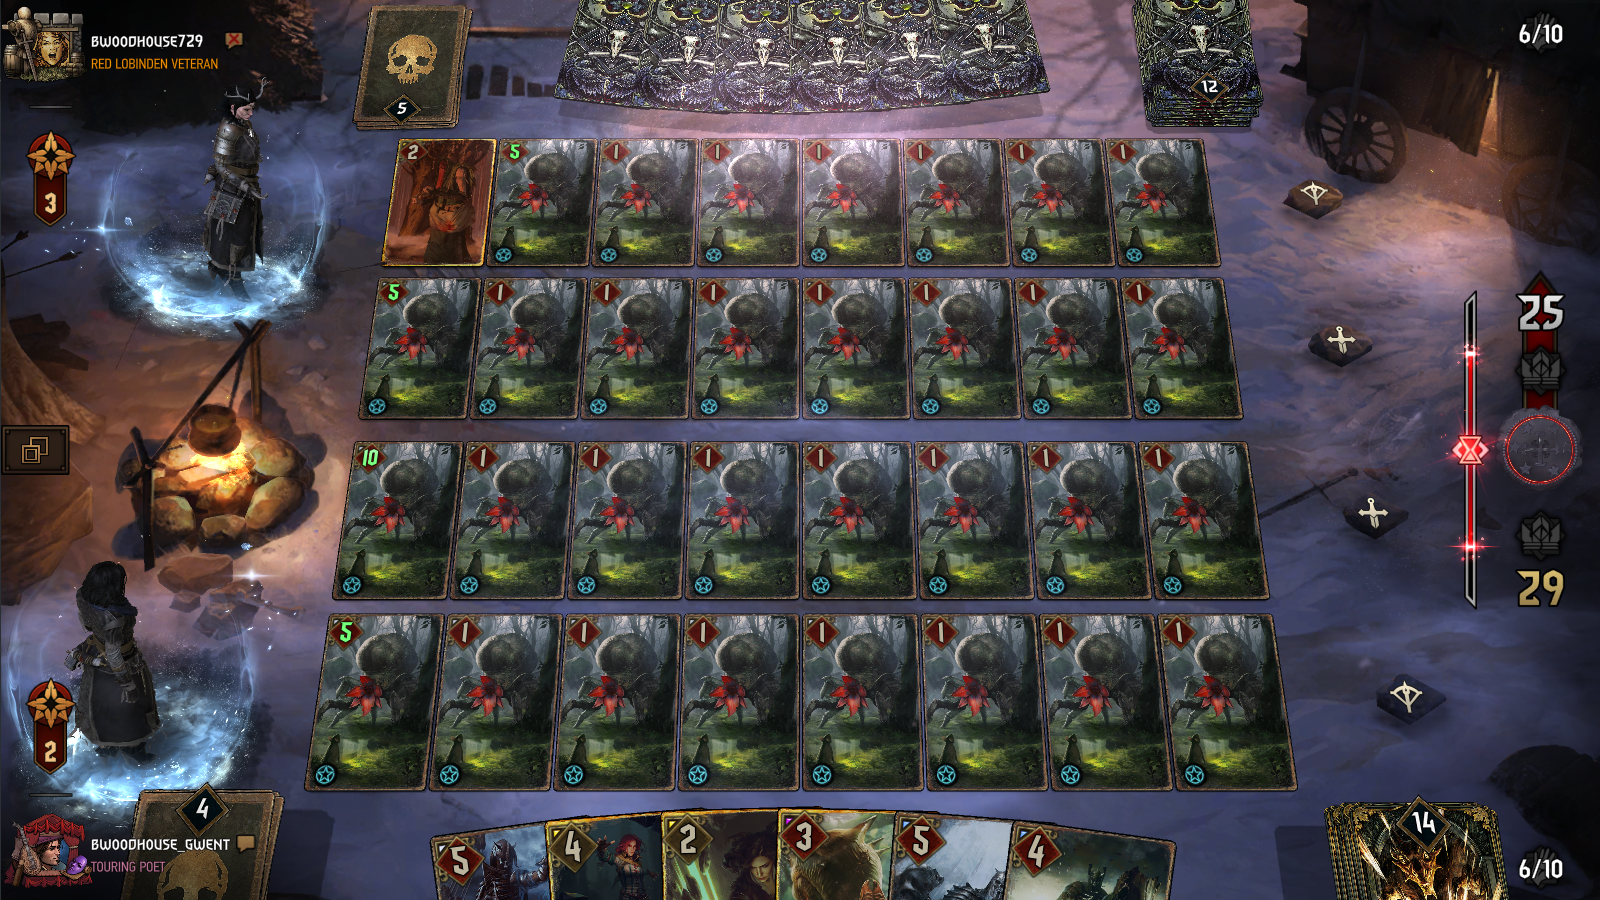
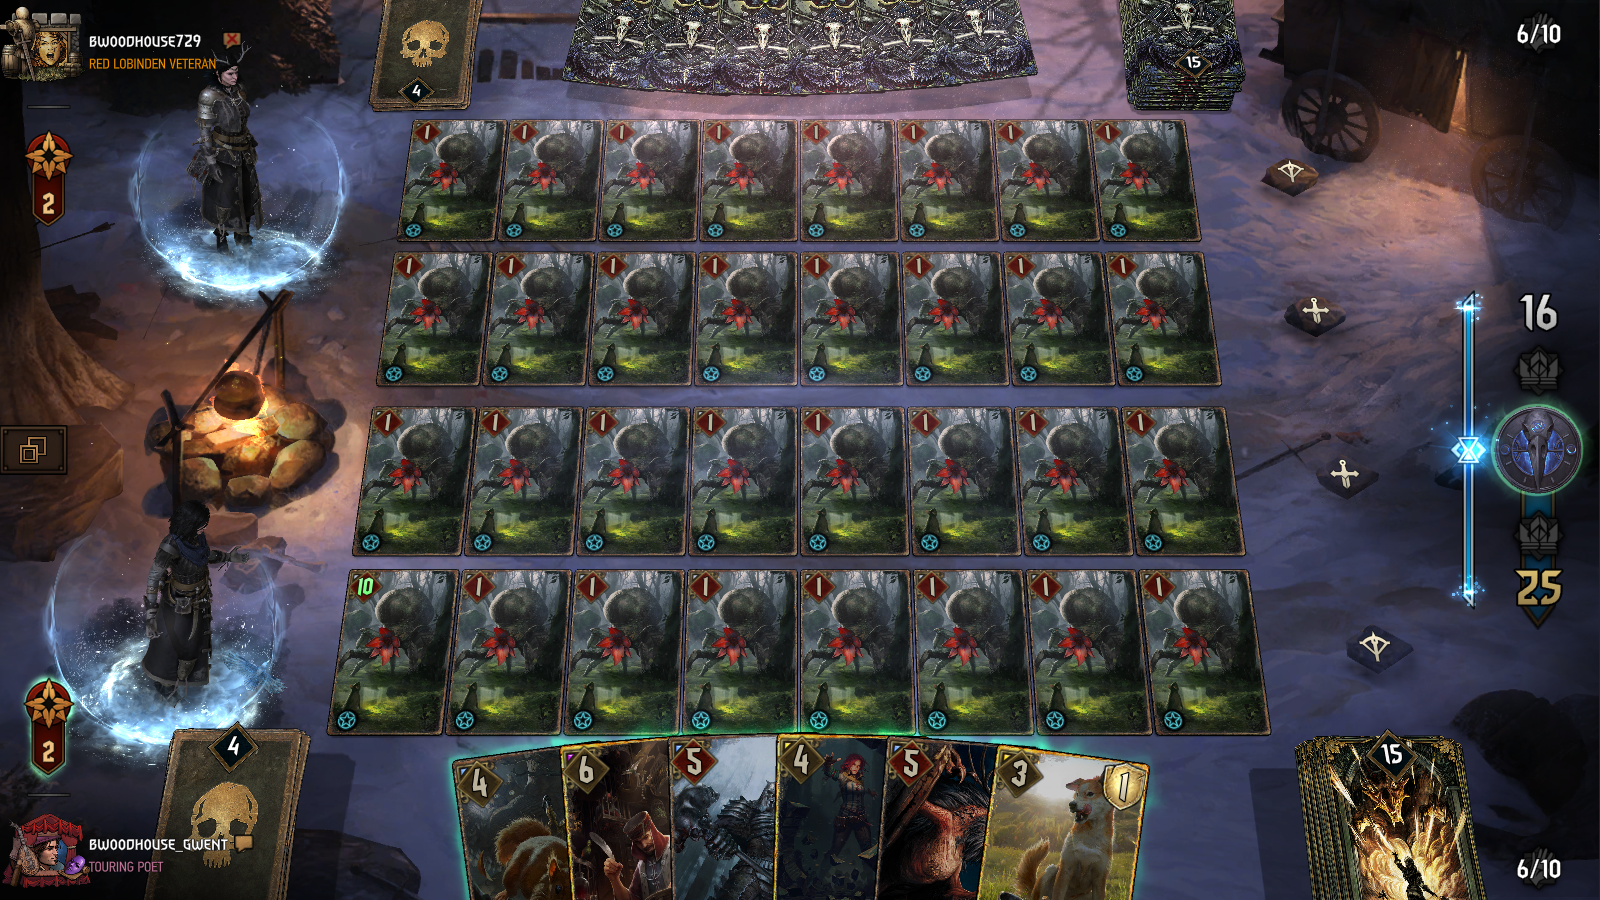
Added third row odd

diff --git a/controller.py b/controller.py
@@ -291,37 +291,37 @@ def identify_board():
     
     # coordinates of cards, by row
     upper_lefts_odd = [[[121, 367], [121, 463], [121, 560], [121, 658], [121, 754], [121, 851], [121, 948], [121, 1045], [121, 1142]],
-                       [[252, 347], [252, 449], [252, 550], [252, 652], [252, 753], [252, 855], [252, 957], [252, 1058], [252, 1159]],
-                       [[, ], [, ], [, ], [, ], [, ], [, ], [, ], [, ], [, ]],
-                       [[, ], [, ], [, ], [, ], [, ], [, ], [, ], [, ], [, ]]]
+                        [[252, 347], [252, 449], [252, 550], [252, 652], [252, 753], [252, 855], [252, 957], [252, 1058], [252, 1159]],
+                        [[406, 322], [406, 429], [406, 535], [406, 642], [406, 750], [406, 857], [406, 964], [406, 1070], [406, 1178]],
+                        [[, ], [, ], [, ], [, ], [, ], [, ], [, ], [, ], [, ]]]
     upper_rights_odd = [[[121, 458], [121, 555], [121, 653], [121, 749], [121, 846], [121, 943], [121, 1040], [121, 1137], [121, 1233]],
                         [[252, 444], [252, 545], [252, 647], [252, 748], [252, 850], [252, 952], [252, 1053], [252, 1154], [252, 1253]],
-                       [[, ], [, ], [, ], [, ], [, ], [, ], [, ], [, ], [, ]],
-                       [[, ], [, ], [, ], [, ], [, ], [, ], [, ], [, ], [, ]]]
+                        [[406, 422], [406, 530], [406, 637], [406, 745], [406, 852], [406, 958], [406, 1065], [406, 1172], [406, 1279]],
+                        [[, ], [, ], [, ], [, ], [, ], [, ], [, ], [, ], [, ]]]
     lower_lefts_odd = [[[253, 349], [253, 450], [239, 551], [239, 652], [239, 753], [239, 853], [239, 955], [239, 1055], [239, 1156]],
-                       [[384, 326], [384, 432], [384, 538], [384, 644], [384, 750], [384, 856], [384, 962], [384, 1068], [384, 1174]],
-                       [[, ], [, ], [, ], [, ], [, ], [, ], [, ], [, ], [, ]],
-                       [[, ], [, ], [, ], [, ], [, ], [, ], [, ], [, ], [, ]]]
+                        [[384, 326], [384, 432], [384, 538], [384, 644], [384, 750], [384, 856], [384, 962], [384, 1068], [384, 1174]],
+                        [[554, 298], [554, 411], [554, 523], [554, 635], [554, 747], [554, 859], [554, 971], [554, 1083], [554, 1195]],
+                        [[, ], [, ], [, ], [, ], [, ], [, ], [, ], [, ], [, ]]]
     lower_rights_odd = [[[239, 444], [239, 546], [239, 647], [239, 748], [239, 848], [239, 950], [239, 1050], [239, 1151], [239, 1252]],
-                       [[384, 425], [384, 533], [384, 639], [384, 745], [384, 851], [384, 957], [384, 1063], [384, 1169], [384, 1275]],
-                       [[, ], [, ], [, ], [, ], [, ], [, ], [, ], [, ], [, ]],
-                       [[, ], [, ], [, ], [, ], [, ], [, ], [, ], [, ], [, ]]]
+                        [[384, 425], [384, 533], [384, 639], [384, 745], [384, 851], [384, 957], [384, 1063], [384, 1169], [384, 1275]],
+                        [[554, 404], [554, 517], [554, 629], [554, 741], [554, 853], [554, 966], [554, 1077], [554, 1189], [554, 1301]],
+                        [[, ], [, ], [, ], [, ], [, ], [, ], [, ], [, ], [, ]]]
     upper_lefts_even = [[, ], [, ], [, ], [, ], [, ], [, ], [, ], [, ],
                         [, ], [, ], [, ], [, ], [, ], [, ], [, ], [, ],
                         [, ], [, ], [, ], [, ], [, ], [, ], [, ], [, ],
                         [, ], [, ], [, ], [, ], [, ], [, ], [, ], [, ]]
     upper_rights_even = [[, ], [, ], [, ], [, ], [, ], [, ], [, ], [, ],
-                         [, ], [, ], [, ], [, ], [, ], [, ], [, ], [, ],
-                         [, ], [, ], [, ], [, ], [, ], [, ], [, ], [, ],
-                         [, ], [, ], [, ], [, ], [, ], [, ], [, ], [, ]]
+                          [, ], [, ], [, ], [, ], [, ], [, ], [, ], [, ],
+                          [, ], [, ], [, ], [, ], [, ], [, ], [, ], [, ],
+                          [, ], [, ], [, ], [, ], [, ], [, ], [, ], [, ]]
     lower_lefts_even = [[, ], [, ], [, ], [, ], [, ], [, ], [, ], [, ],
                         [, ], [, ], [, ], [, ], [, ], [, ], [, ], [, ],
                         [, ], [, ], [, ], [, ], [, ], [, ], [, ], [, ],
                         [, ], [, ], [, ], [, ], [, ], [, ], [, ], [, ]]
     lower_rights_even = [[, ], [, ], [, ], [, ], [, ], [, ], [, ], [, ],
-                         [, ], [, ], [, ], [, ], [, ], [, ], [, ], [, ],
-                         [, ], [, ], [, ], [, ], [, ], [, ], [, ], [, ],
-                         [, ], [, ], [, ], [, ], [, ], [, ], [, ], [, ]]
+                          [, ], [, ], [, ], [, ], [, ], [, ], [, ], [, ],
+                          [, ], [, ], [, ], [, ], [, ], [, ], [, ], [, ],
+                          [, ], [, ], [, ], [, ], [, ], [, ], [, ], [, ]]
     
     for row in range(4):
         
@@ -631,11 +631,11 @@ if __name__ == "__main__":
     ref_names = pickle.load(open('./classifier/names.p', 'rb'))
     ref_hashes = pickle.load(open('./classifier/hashes.p', 'rb'))
     
-    image = cv2.imread('./development_screenshots/sample_board_8_cards.png')
-    image = cv2.cvtColor(image, cv2.COLOR_BGR2RGB)
-    hsv_image = cv2.cvtColor(image, cv2.COLOR_RGB2HSV)
+    # image = cv2.imread('./development_screenshots/sample_board_8_cards.png')
+    # image = cv2.cvtColor(image, cv2.COLOR_BGR2RGB)
+    # hsv_image = cv2.cvtColor(image, cv2.COLOR_RGB2HSV)
     
-    identify_board()
+    #identify_board()
     
     # # 493, 353 - 10, 89 = 483, 264
     # # 410, 229 - 10, 89 = 400, 140
